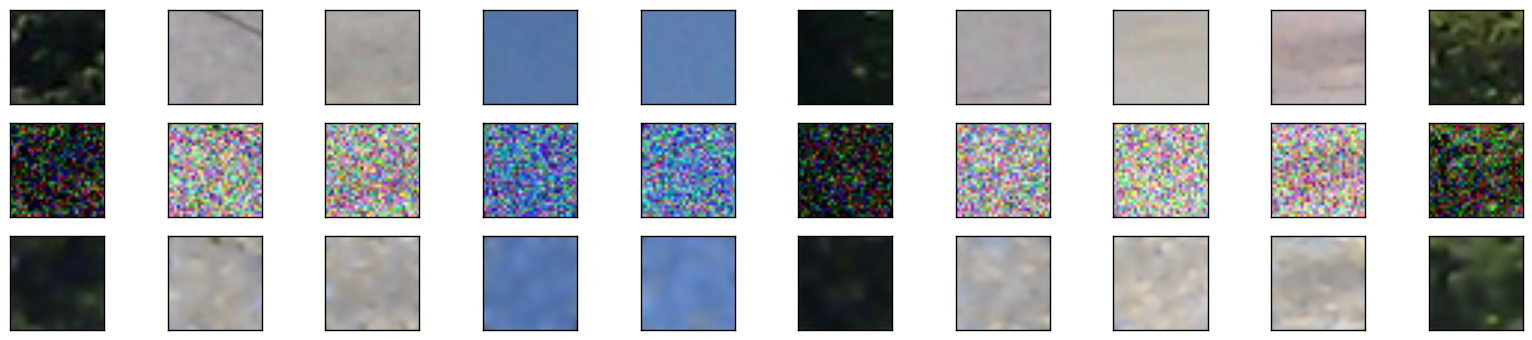
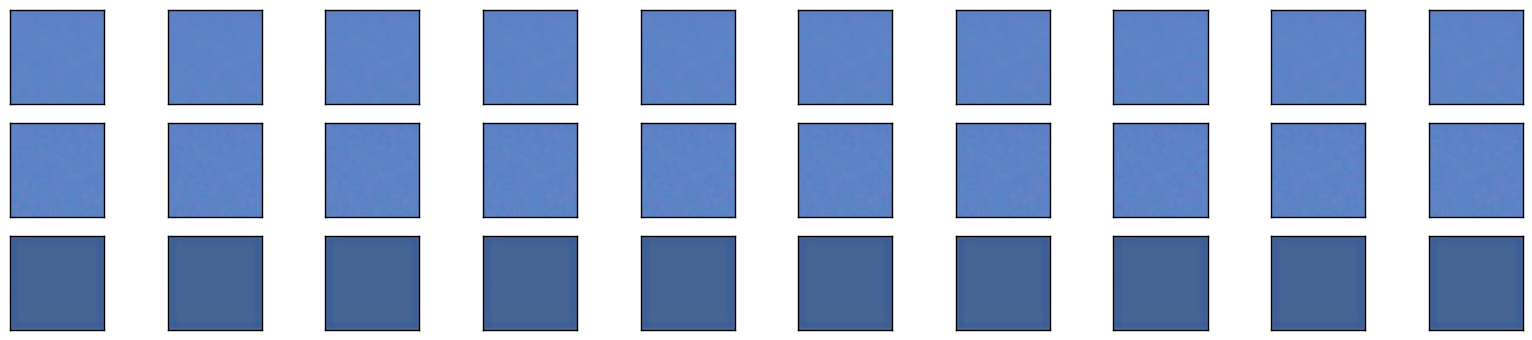
Runs

diff --git a/cnn_autoencoder2.py b/cnn_autoencoder2.py
@@ -5,50 +5,50 @@ from keras.layers import Input, Convolution2D, MaxPooling2D, UpSampling2D, Dropo
 from keras.models import Model
 import numpy as np
 import matplotlib.pyplot as plt
-from image_patches import dataset
+from image_patches import dataset, batch_generator
 from progress_monitor import ProgressMonitor
 
 img_width = img_height = 32
 img_depth = 3
 image_dim = (img_width, img_height, img_depth)
+scale = 2
 
-# (x_train, _), (x_test, _) = cifar10.load_data()
-x_train, x_test = dataset(dim=(image_dim[0], image_dim[1]), max_patches=50)
-print(x_train.shape)
-x_train = x_train.astype('float32') / 255.
-x_test = x_test.astype('float32') / 255.
-x_train = np.reshape(x_train, (len(x_train), *image_dim))
-x_test = np.reshape(x_test, (len(x_test), *image_dim))
+# x_train, x_test = dataset(dim=(image_dim[0], image_dim[1]), max_patches=50)
+# print(x_train.shape)
+# x_train = x_train.astype('float32') / 255.
+# x_test = x_test.astype('float32') / 255.
+# x_train = np.reshape(x_train, (len(x_train), *image_dim))
+# x_test = np.reshape(x_test, (len(x_test), *image_dim))
+#
+# noise_factor = 0.2
+# nose_channel = 0
+# noise_mean = 0.0
+# noise_scale = 0.1
+# x_train_noisy = x_train.copy()
+# x_test_noisy = x_test.copy()
+# x_train_noisy[:, :, :, nose_channel] += np.random.normal(loc=noise_mean, scale=noise_scale,
+#                                                                         size=(len(x_train_noisy), img_width, img_height))
+# x_test_noisy[:, :, :, nose_channel] += np.random.normal(loc=noise_mean, scale=noise_scale,
+#                                                                        size=(len(x_test_noisy), img_width, img_height))
+#
+# print(x_train_noisy.shape)
+# x_train_noisy = np.clip(x_train_noisy, 0., 1.)
+# x_test_noisy = np.clip(x_test_noisy, 0., 1.)
+#
+# n = 10  # how many digits we will display
+# plt.figure(figsize=(20, 4))
+# for i in range(n):
+#     # display noisy
+#     ax = plt.subplot(1, n, i + 1)
+#     plt.imshow(x_test_noisy[i].reshape(img_width, img_height, img_depth))
+#     plt.gray()
+#     ax.get_xaxis().set_visible(False)
+#     ax.get_yaxis().set_visible(False)
+# plt.show()
+#
 
-noise_factor = 0.2
-nose_channel = 0
-noise_mean = 0.0
-noise_scale = 0.1
-x_train_noisy = x_train.copy()
-x_test_noisy = x_test.copy()
-x_train_noisy[:, :, :, nose_channel] += np.random.normal(loc=noise_mean, scale=noise_scale,
-                                                                        size=(len(x_train_noisy), img_width, img_height))
-x_test_noisy[:, :, :, nose_channel] += np.random.normal(loc=noise_mean, scale=noise_scale,
-                                                                       size=(len(x_test_noisy), img_width, img_height))
-
-print(x_train_noisy.shape)
-x_train_noisy = np.clip(x_train_noisy, 0., 1.)
-x_test_noisy = np.clip(x_test_noisy, 0., 1.)
-
-n = 10  # how many digits we will display
-plt.figure(figsize=(20, 4))
-for i in range(n):
-    # display noisy
-    ax = plt.subplot(1, n, i + 1)
-    plt.imshow(x_test_noisy[i].reshape(img_width, img_height, img_depth))
-    plt.gray()
-    ax.get_xaxis().set_visible(False)
-    ax.get_yaxis().set_visible(False)
-plt.show()
-
-
-def create_model():
-    input_img = Input(shape=image_dim)
+def create_model(x_dim, scale):
+    input_img = Input(shape=x_dim)
 
     x = Convolution2D(32, 3, 3, activation='relu', border_mode='same')(input_img)
     x = Convolution2D(32, 3, 3, activation='relu', border_mode='same')(x)
@@ -57,16 +57,17 @@ def create_model():
     x = Convolution2D(32, 3, 3, activation='relu', border_mode='same')(encoded)
     x = Convolution2D(32, 3, 3, activation='relu', border_mode='same')(x)
     x = Convolution2D(32, 3, 3, activation='relu', border_mode='same')(x)
+    x = UpSampling2D(size=(scale, scale))(x)
     decoded = Convolution2D(img_depth, 3, 3, activation='sigmoid', border_mode='same')(x)
 
     autoencoder = Model(input_img, decoded)
-    encoder = Model(input=input_img, output=encoded)
+    #encoder = Model(input=input_img, output=encoded)
 
     return autoencoder
 
 
 def build_model(model_dir):
-    model = create_model()
+    model = create_model(image_dim, scale)
     files = glob.glob(model_dir + '/*.hdf5')
     if len(files):
         files.sort(key=os.path.getmtime, reverse=True)
@@ -84,17 +85,26 @@ autoencoder.compile(optimizer='adam', loss='mse')
 filepath = "model/model-epoch-{epoch:02d}-{loss:.4f}.hdf5"
 checkpoint = ModelCheckpoint(filepath, monitor='loss', verbose=1, save_best_only=True, mode='min')
 remote = RemoteMonitor(root='http://localhost:9000')
-progress = ProgressMonitor(x_test, x_test_noisy, image_dim)
+
+test_generator = batch_generator(data_dir='data/test', dim=(img_width, img_height), scale=scale, stride=1, batch_size=128)
+
+progress = ProgressMonitor(generator=test_generator, dim=image_dim)
 callbacks_list = [checkpoint, remote, progress]
+#callbacks_list = [checkpoint, remote]
 
-autoencoder.fit(x_train_noisy, x_train,
-                nb_epoch=10,
-                batch_size=128,
-                shuffle=True,
-                validation_data=(x_test_noisy, x_test),
-                callbacks=callbacks_list)
+generator = batch_generator(data_dir='data/train', dim=(img_width, img_height), scale=scale, stride=1, batch_size=128)
+autoencoder.fit_generator(generator, samples_per_epoch=12800, nb_epoch=2, callbacks=callbacks_list)
 
-decoded_imgs = autoencoder.predict(x_test_noisy)
+# autoencoder.fit(x_train_noisy, x_train,
+#                 nb_epoch=10,
+#                 batch_size=128,
+#                 shuffle=True,
+#                 validation_data=(x_test_noisy, x_test),
+#                 callbacks=callbacks_list)
+
+x_test, y_test = next(test_generator)
+decoded_imgs = autoencoder.predict(x_test)
+#decoded_imgs = autoencoder.predict_generator(generator, val_samples=10)
 
 n = 10  # how many digits we will display
 plt.figure(figsize=(20, 4))
@@ -108,14 +118,14 @@ for i in range(n):
 
     # display noisy
     ax = plt.subplot(3, n, i + 1 + n)
-    plt.imshow(x_test_noisy[i].reshape(img_width, img_height, img_depth))
+    plt.imshow(y_test[i].reshape(img_width*scale, img_height*scale, img_depth))
     plt.gray()
     ax.get_xaxis().set_visible(False)
     ax.get_yaxis().set_visible(False)
 
     # display reconstruction
     ax = plt.subplot(3, n, i + 1 + 2 * n)
-    plt.imshow(decoded_imgs[i].reshape(img_width, img_height, img_depth))
+    plt.imshow(decoded_imgs[i].reshape(img_width*scale, img_height*scale, img_depth))
     plt.gray()
     ax.get_xaxis().set_visible(False)
     ax.get_yaxis().set_visible(False)

diff --git a/progress_monitor.py b/progress_monitor.py
@@ -4,10 +4,11 @@ import matplotlib.pyplot as plt
 
 class ProgressMonitor(Callback):
 
-    def __init__(self, x_test, x_test_noisy, dim=(32, 32, 3)):
+    def __init__(self, x_test=None, x_test_noisy=None, generator=None, dim=(32, 32, 3)):
         super().__init__()
         self.x_test = x_test
         self.x_test_noisy = x_test_noisy
+        self.generator = generator
         self.dim = dim
         pass
 
@@ -18,7 +19,13 @@ class ProgressMonitor(Callback):
         pass
 
     def on_epoch_end(self, epoch, logs={}):
-        decoded_imgs = self.model.predict(self.x_test_noisy)
+        if self.generator is not None:
+            x, y = next(self.generator)
+            decoded_imgs = self.model.predict(x)
+        else:
+            x = self.x_test_noisy
+            y = self.x_test
+            decoded_imgs = self.model.predict(self.x_test_noisy)
         img_width = self.dim[0]
         img_height = self.dim[1]
         img_depth = self.dim[2]
@@ -28,21 +35,21 @@ class ProgressMonitor(Callback):
         for i in range(n):
             # display original
             ax = plt.subplot(3, n, i + 1)
-            plt.imshow(self.x_test[i].reshape(img_width, img_height, img_depth))
+            plt.imshow(x[i].reshape(img_width, img_height, img_depth))
             plt.gray()
             ax.get_xaxis().set_visible(False)
             ax.get_yaxis().set_visible(False)
 
             # display noisy
             ax = plt.subplot(3, n, i + 1 + n)
-            plt.imshow(self.x_test_noisy[i].reshape(img_width, img_height, img_depth))
+            plt.imshow(y[i].reshape(img_width*2, img_height*2, img_depth))
             plt.gray()
             ax.get_xaxis().set_visible(False)
             ax.get_yaxis().set_visible(False)
 
-            # display reconstruction
+            #display reconstruction
             ax = plt.subplot(3, n, i + 1 + 2 * n)
-            plt.imshow(decoded_imgs[i].reshape(img_width, img_height, img_depth))
+            plt.imshow(decoded_imgs[i].reshape(img_width*2, img_height*2, img_depth))
             plt.gray()
             ax.get_xaxis().set_visible(False)
             ax.get_yaxis().set_visible(False)

diff --git a/image_patches.py b/image_patches.py
@@ -6,8 +6,8 @@ import numpy as np
 import matplotlib.image as mpimg
 
 
-def patches(data_dir='data', dim_x=(32, 32), scale=2, stride=1):
-    dim_y = (dim_x[0]*scale, dim_x[1]*scale)
+def patches(data_dir='data', dim=(32, 32), scale=2, stride=1):
+    dim_y = (dim[0] * scale, dim[1] * scale)
     y_files = glob.glob(data_dir + '/*.jpg')
     while True:
         np.random.shuffle(y_files)
@@ -17,25 +17,29 @@ def patches(data_dir='data', dim_x=(32, 32), scale=2, stride=1):
             y_shape = y_image.shape
             x_image = imresize(y_image, (int(y_shape[0]/scale), int(y_shape[1]/scale), int(y_shape[2])))
 
-            for m in np.arange(0, int(x_image.shape[0] - dim_x[0]), stride):
-                for n in np.arange(0, int(x_image.shape[1] - dim_x[1]), stride):
-                    patch_x = x_image[m:m + dim_x[1], n:n + dim_x[0]]
+            for m in np.arange(0, int(x_image.shape[0] - dim[0]), stride):
+                for n in np.arange(0, int(x_image.shape[1] - dim[1]), stride):
+                    patch_x = x_image[m:m + dim[1], n:n + dim[0]]
                     patch_y = y_image[m*scale:m*scale + dim_y[1], n*scale:n*scale + dim_y[0]]
                     yield patch_x, patch_y
 
 
 def batch_generator(data_dir='data', dim=(28, 28), scale=2, stride=1, batch_size=128):
-    patch_generator = patches(data_dir, dim_x=dim, scale=scale, stride=stride)
+    patch_generator = patches(data_dir, dim=dim, scale=scale, stride=stride)
     batch_x = []
     batch_y = []
     for x, y in patch_generator:
         batch_x.append(x)
         batch_y.append(y)
         if len(batch_x) == batch_size:
+            batch_x = np.asarray(batch_x)
+            batch_y = np.asarray(batch_y)
+            batch_x = batch_x.astype('float32') / 255.
+            batch_y = batch_y.astype('float32') / 255.
+
             yield batch_x, batch_y
             batch_x =[]
             batch_y = []
-
 
 
 def dataset(data_dir='data', dim=(28, 28), test_size=0.3, max_patches=10000):
